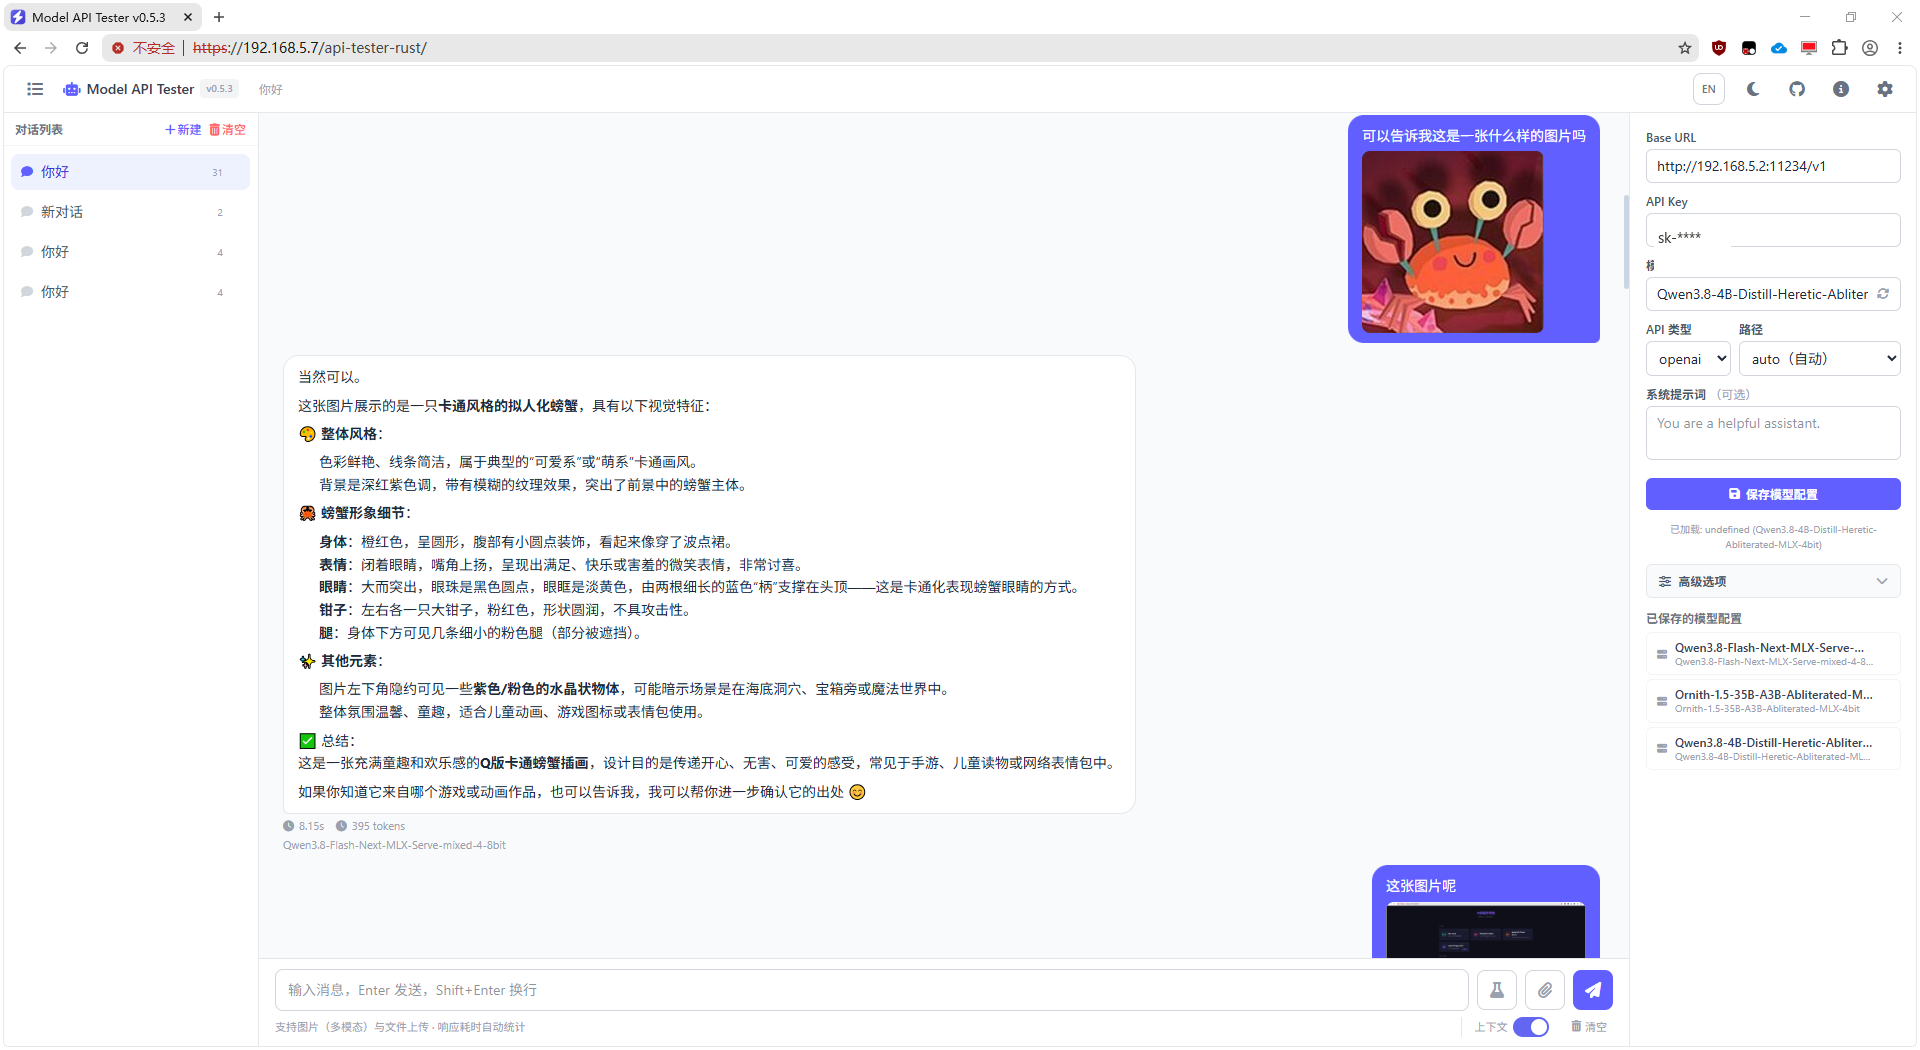
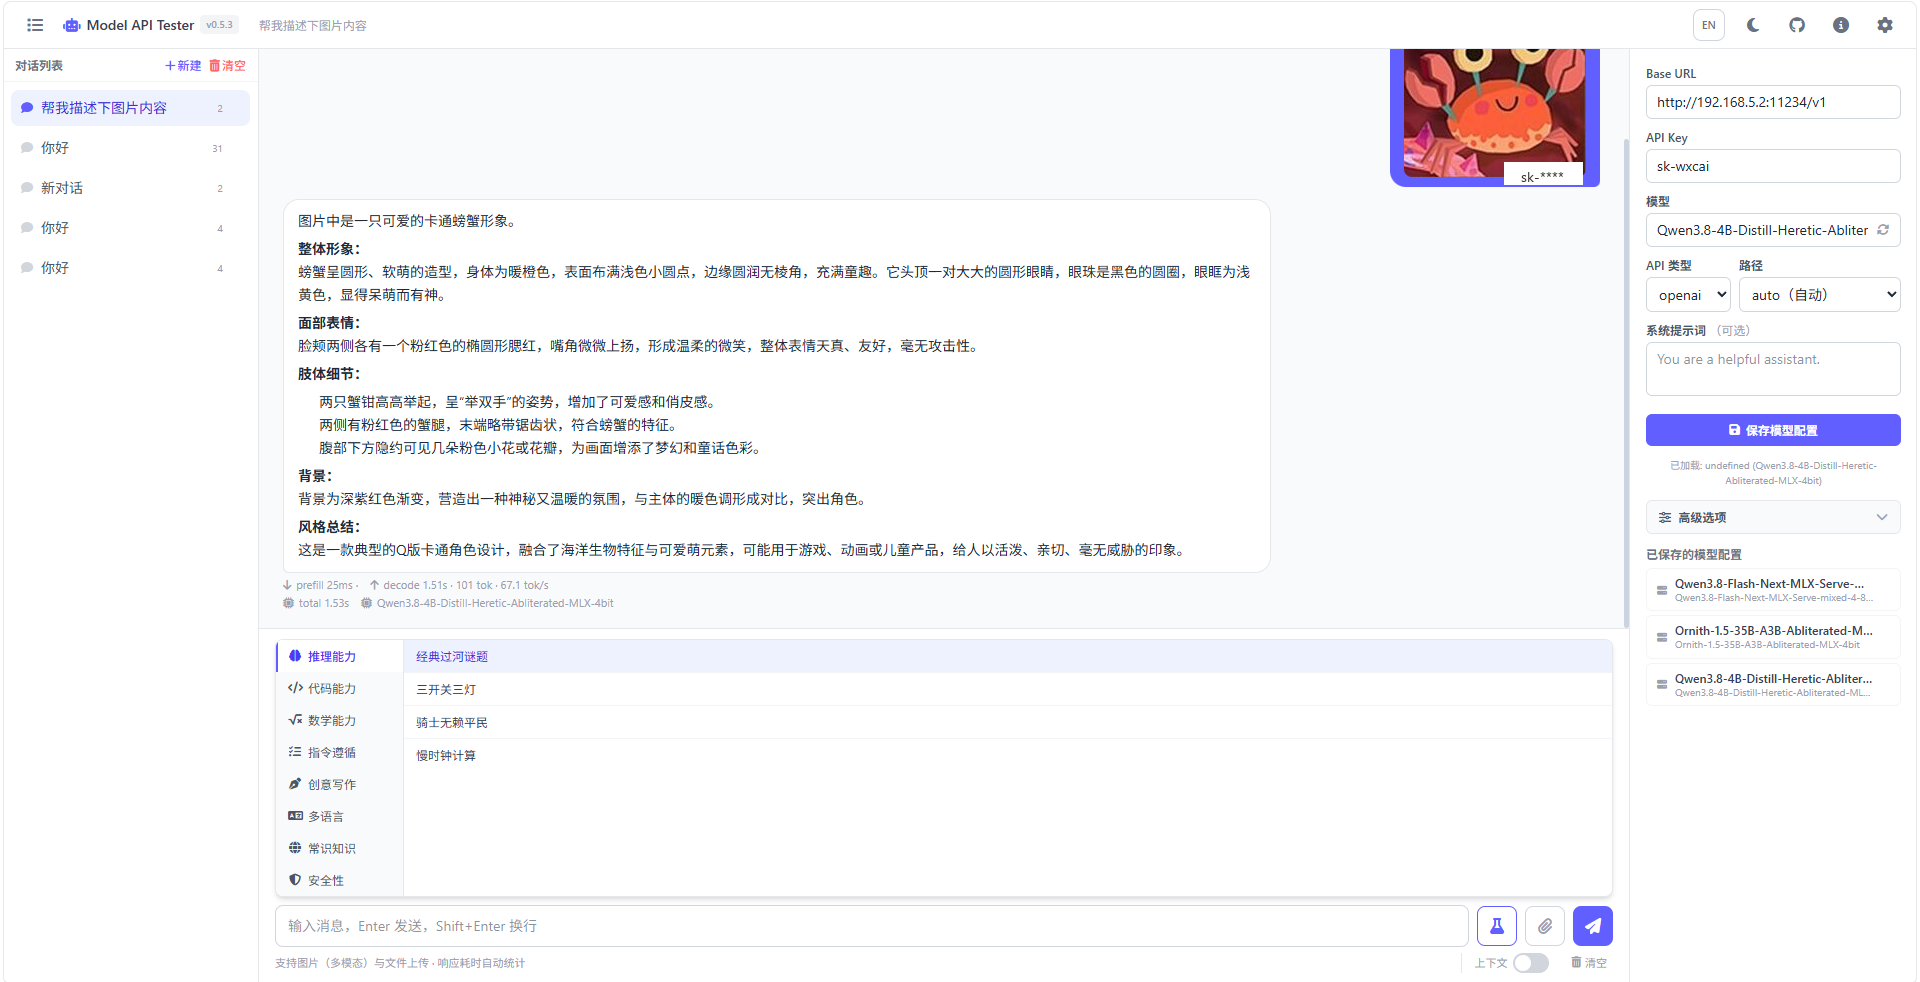
docs: optimize README — trim details, update screenshot with tok/s metrics, unify mat naming

diff --git a/README_en.md b/README_en.md
@@ -1,46 +1,32 @@
-
 # ModelApiTester
 
 English | [中文](./README.md)
 
-A lightweight LLM API testing tool with multimodal chat, image/file upload, streaming output, response timing stats, and persistent conversations & model configs.
+A lightweight LLM API testing tool with multimodal chat, streaming output, response timing stats, and persistent conversations & model configs.
 
-Designed for individuals/teams who need to test API availability and manage API keys — not a full-blown chat product, just "fill in the endpoint -> send a message -> see the result."
+Designed for individuals/teams who need to test API availability and manage API keys — not a full-blown chat product, just "fill in the endpoint → send a message → see the result."
+
+![Model API Tester Screenshot](./docs/screenshot.png)
 
 ## Features
 
-- **Multi-API type support** — Built-in OpenAI / Anthropic / Google Gemini / other mainstream API formats, auto-adapts request body and response parsing
-- **Streaming output** — Supports OpenAI / Anthropic / Google Gemini SSE streaming formats, character-by-character output with blinking cursor, auto Markdown render on completion
-- **Preset test prompts** — 32 curated prompts across 8 capability categories (reasoning / coding / math / instruction following / creative writing / multilingual / knowledge / safety), one-click fill into the input box, ideal for quickly comparing model capabilities
-- **Unified app icon** — Indigo gradient rounded square + white lightning bolt, consistent across Web favicon and desktop
-- **About dialog** — Chrome-like about page: brand area + update checker (auto-checks GitHub latest release, one-click jump to download when outdated) + GitHub / Changelog / Credits links
-- **Single-file desktop executable** — Tauri build no longer bundles installers; one portable binary, data stored in `~/.mat-desktop/`
-- **Response timing** — Each reply shows elapsed time, token usage, and model name; streaming mode breaks down prefill/decode timing and tok/s separately
-- **Image & file upload** — Multi-image select/preview, images sent as multimodal (OpenAI vision format), files attachable (Claude document block)
-- **Image double-click zoom** — Integrated Viewer.js; double-click any chat image to open a viewer with zoom/rotate/flip/download
-- **Math formula rendering** — Integrated KaTeX; supports `$...$` inline and `$$...$$` block-level formulas, perfectly renders LaTeX math expressions
-- **Video playback** — Video links in Markdown (`.mp4`/`.webm` extensions or `data:video` URIs) are automatically rendered as playable `<video>` tags
-- **Model list fetch** — Click the refresh button next to the model field to pull available models from `/v1/models`, with live filtering
-- **API type + endpoint dropdown** — Provides candidate paths per type (e.g. `/v1/chat/completions`, `/v1/messages`); empty = auto-infer
-- **Context toggle** — One-click switch for sending conversation history (off = pure single-turn test mode), defaults to off
-- **System prompt** — Optional system prompt field in the sidebar
-- **Persistent model configs** — Save/switch multiple configs; Base URL / API Key / model name / API type stored in SQLite
-- **Per-conversation model memory** — Current model config is auto-saved per conversation and restored when reopening
-- **Persistent conversations** — Multi-conversation list, chat history (including images) stored in SQLite, survives refresh; one-click clear all conversations
-- **i18n** — Chinese/English toggle, defaults to browser/OS language
-- **Dark/light theme** — One-click toggle, preference saved to localStorage
-- **Claude support** — Auto-detects Claude models, adapts `/v1/messages` format + image source format
-- **Google Gemini support** — `contents[]` format, `systemInstruction`, `inlineData` images, adjacent same-role merge
-- **Auto URL dedup** — Smart deduplication when Base URL contains `/v1`, no `/v1/v1/...`
+- **Multi-API types** — OpenAI / Anthropic / Google Gemini / other mainstream formats, auto-adapts request body and response parsing
+- **Streaming output** — Supports OpenAI / Anthropic / Gemini SSE streaming formats, character-by-character output with Markdown render on completion
+- **Response timing** — Each reply shows prefill time, decode time, generated token count, generation speed (tok/s), total elapsed time, and model name
+- **Multimodal upload** — Multi-image select/preview (OpenAI vision format), file attachments (Claude document block), double-click to zoom images (Viewer.js)
+- **Markdown + formulas** — markdown-it rendering + KaTeX math formulas (`$...$` inline / `$$...$$` block) + auto-play video links
+- **Preset test prompts** — 32 curated prompts across 8 capability categories, one-click fill, ideal for comparing model capabilities
+- **Persistent sessions & configs** — Multi-conversation management with SQLite storage; save/switch multiple model configs; auto-saves current config per message
+- **Model list fetch** — Pull available models from `/v1/models` with live filtering
+- **Context toggle** — One-click switch for sending conversation history (off = pure single-turn test mode)
+- **i18n + dark/light theme** — Auto-detects browser/OS language; dark/light theme toggle
 
 ## Three Usage Modes
-
-ModelApiTester offers three deployment/usage modes, all sharing the same Rust core and Vite frontend:
 
 | Mode | Description | Use case |
 |------|-------------|----------|
 | **Server** | Rust binary + frontend static files, accessed via browser | Server deployment, team sharing |
-| **Desktop app** | Tauri-packaged native desktop application | Local use, no server needed |
+| **Desktop app** | Tauri native desktop app, single portable binary | Local use, no server needed |
 | **Build from source** | cargo + npm local build | Development, customization |
 
 ---
@@ -56,8 +42,6 @@ Download the files for your platform from [Releases](https://github.com/yachen4e
 | `mat-server-macos-arm64` | macOS Apple Silicon |
 | `mat-server-macos-x64` | macOS Intel |
 | `mat-frontend-dist.zip` | Frontend static files (all platforms) |
-
-**Deployment steps:**
 
 ```bash
 # 1. Create deployment directory
@@ -87,14 +71,17 @@ Options:
       --port <PORT>          Listen port [default: 52081]
       --db-path <DB_PATH>    SQLite database path [default: ./model_api_tester.db]
       --static-dir <DIR>     Frontend static files directory [default: crates/http-server/static]
-  -h, --help                 Show help
-  -V, --version              Show version
+   -h, --help                 Show help
+   -V, --version              Show version
 ```
 
-All options are passed via CLI flags only; **environment variables are not supported** (to avoid common variables like `HOST`/`PORT` being accidentally set by external environments).
+All options are passed via CLI flags only; environment variables are not supported.
+
+- `--static-dir`: Frontend static files directory. The backend has a built-in ServeDir to serve frontend pages directly. If using nginx to host the frontend, this option is not needed.
+- `--db-path`: SQLite database location, useful for centralizing data management.
 
 ```bash
-# Expose externally + custom port and database path
+# Expose externally + custom port and data directory
 ./mat-server --host 0.0.0.0 --port 8080 --db-path /data/mat.db --static-dir /var/www/mat
 ```
 
@@ -107,8 +94,8 @@ After=network.target
 
 [Service]
 Type=simple
-WorkingDirectory=/opt/mat-server
-ExecStart=/opt/mat-server/mat-server --host 127.0.0.1 --port 52081 --db-path /opt/mat-server/model_api_tester.db --static-dir /opt/mat-server/static
+WorkingDirectory=/opt/mat
+ExecStart=/opt/mat/mat-server --host 127.0.0.1 --port 52081 --db-path /opt/mat/model_api_tester.db
 Restart=always
 RestartSec=3
 
@@ -120,14 +107,14 @@ nginx serves frontend static files directly and only proxies `/api/` to the Rust
 
 ```nginx
 # Frontend static files
-location /api-tester-rust/ {
-    alias /var/www/api-tester-rust/;
+location /mat/ {
+    alias /var/www/mat/;
     index index.html;
-    try_files $uri $uri/ /api-tester-rust/index.html =404;
+    try_files $uri $uri/ /mat/index.html =404;
 }
 
 # API proxy to Rust backend
-location /api-tester-rust/api/ {
+location /mat/api/ {
     proxy_pass http://127.0.0.1:52081/api/;
     proxy_set_header Host $host;
     proxy_set_header X-Real-IP $remote_addr;
@@ -142,7 +129,7 @@ location /api-tester-rust/api/ {
 }
 ```
 
-> In nginx deployment mode, the backend does not need `--static-dir` (nginx handles static files), but `--db-path` is still required.
+> In nginx mode, the backend does not need `--static-dir` (nginx handles static files), but `--db-path` is still required.
 
 ---
 
@@ -159,18 +146,11 @@ Download the executable for your platform from [Releases](https://github.com/yac
 
 Download and launch directly — data is stored in `~/.mat-desktop/`, no server configuration needed.
 
-> **Note**: Since v0.5.3 the desktop build is a single executable (no msi/dmg/deb installers).
-> The data directory is fixed to `~/.mat-desktop/model_api_tester.db` for portable green distribution.
-
-![Model API Tester Screenshot](./docs/screenshot.png)
-
 ---
 
 ### Mode 3: Build from Source
 
-**Prerequisites:**
-- Rust 1.75+ (install via `rustup`)
-- Node.js 18+ (for frontend build)
+**Prerequisites:** Rust 1.75+, Node.js 18+
 
 ```bash
 # 1. Build frontend
@@ -202,24 +182,42 @@ Open `http://localhost:5173` in your browser. Frontend code changes hot-reload i
 
 ---
 
-## Tech Stack
+## Architecture
 
-**Backend (shared core):**
-- Rust + axum 0.8 (HTTP server)
-- rusqlite (bundled SQLite)
-- tower-http (static file serving + CORS)
-- clap (CLI argument parsing)
+```
+ModelApiTester/
+├── crates/
+│   ├── core/              # Shared business logic (server + desktop)
+│   │   └── src/
+│   │       ├── lib.rs     # Module exports + VERSION
+│   │       ├── models.rs  # Data structures + DTOs
+│   │       └── db.rs      # SQLite schema/migration/CRUD
+│   ├── http-server/       # axum HTTP server
+│   │   └── src/main.rs    # CLI args + routes + static file serving
+│   └── tauri-app/         # Tauri desktop app (reuses core)
+│       └── src/lib.rs     # IPC routing (api_request command)
+├── frontend/              # Vite + Vue 3 frontend project
+│   └── src/
+│       ├── components/    # Vue components
+│       │   ├── ChatPanel.vue       # Chat area + streaming + preset prompts
+│       │   ├── ModelConfig.vue     # Model config panel
+│       │   ├── MessageBubble.vue   # Message bubble + Markdown render
+│       │   └── StreamBubble.vue    # Streaming output bubble
+│       └── composables/   # Vue Composition utilities
+│           ├── useApi.js           # API client
+│           ├── useStream.js        # SSE streaming response parser
+│           ├── useUtils.js         # Request builder + utilities
+│           └── mdRender.js         # Markdown renderer (markdown-it + KaTeX + video)
+└── .github/workflows/     # GitHub Actions CI/CD
+```
 
-**Frontend:**
-- Vue 3 (Composition API + `<script setup>`)
-- Vite 6 + Tailwind CSS v4
-- markdown-it + KaTeX (Markdown rendering + LaTeX math formulas)
-- Viewer.js (image viewer)
-- Font Awesome (icons)
-- Native fetch (API requests)
+**Tech stack:**
 
-**Desktop:**
-- Tauri 2 (reuses core + frontend)
+| Layer | Technology |
+|-------|------------|
+| Backend | Rust + axum + rusqlite + clap |
+| Frontend | Vue 3 + Vite 6 + Tailwind CSS v4 + markdown-it + KaTeX |
+| Desktop | Tauri 2 (reuses core + frontend) |
 
 ## API
 
@@ -233,68 +231,13 @@ Open `http://localhost:5173` in your browser. Frontend code changes hot-reload i
 | GET/DELETE | `/api/conversations/:id/messages` | List / clear messages |
 | POST | `/api/messages` | Save message (with images/files) |
 
-## Project Structure
-
-```
-ModelApiTester/
-├── Cargo.toml                    # Rust workspace root
-├── Cargo.lock
-├── crates/
-│   ├── core/                     # Shared business logic (server + desktop)
-│   │   ├── Cargo.toml
-│   │   └── src/
-│   │       ├── lib.rs            # Module exports + VERSION
-│   │       ├── models.rs         # Data structures + DTOs
-│   │       └── db.rs             # SQLite schema/migration/CRUD
-│   ├── http-server/              # axum HTTP server
-│   │   ├── Cargo.toml
-│   │   ├── src/
-│   │   │   └── main.rs           # CLI args + routes + ServeDir
-│   │   └── static/               # Vite build output (gitignored)
-│   └── tauri-app/                # Tauri desktop app (reuses core)
-│       ├── Cargo.toml
-│       ├── tauri.conf.json
-│       └── src/
-│           ├── lib.rs            # IPC routing (api_request command)
-│           └── main.rs           # Tauri entry
-├── frontend/                     # Vite + Vue 3 frontend project
-│   ├── package.json
-│   ├── vite.config.js
-│   ├── index.html
-│   └── src/
-│       ├── main.js               # Vue mount entry
-│       ├── App.vue               # Root layout (theme/language/conversation state)
-│       ├── i18n.js               # zh/en i18n (Vue reactive)
-│       ├── style.css             # Tailwind v4 + custom styles
-│       ├── components/           # Vue components
-│       │   ├── ChatPanel.vue      #   Chat area + streaming + preset prompt panel + send logic
-│       │   ├── ConversationList.vue #  Conversation list
-│       │   ├── ModelConfig.vue     #   Model config panel
-│       │   ├── MessageBubble.vue   #   Message bubble + Markdown render
-│       │   └── StreamBubble.vue    #   Streaming output bubble
-│       └── composables/          # Vue Composition utilities
-│           ├── useApi.js           #   API client (fetch / Tauri invoke)
-│           ├── useStream.js        #   SSE streaming response parser
-│           ├── useUtils.js         #   Utility functions + request builder
-│           └── mdRender.js         #   Shared Markdown renderer (markdown-it + KaTeX + video)
-├── .github/
-│   └── workflows/
-│       └── release.yml           # GitHub Actions (3-platform binaries + frontend zip + Tauri single executable)
-├── README.md
-├── README_en.md
-├── CHANGELOG.md
-└── .gitignore
-```
-
-> The legacy Bun version is archived in the `bun_legacy_archived` branch.
-
 ## Changelog
 
 See [CHANGELOG.md](./CHANGELOG.md).
 
 ## Credits
 
-This project started as a fork of [openai-api-tester](https://github.com/RunningFelix/openai-api-tester) by [@RunningFelix](https://github.com/RunningFelix) (MIT License). It has since been rewritten first as a Bun + SQLite engineering version, then as a Rust + Vite rewrite, with image upload, response timing, context toggle, UI redesign, multi-API type support, and more.
+This project started as a fork of [openai-api-tester](https://github.com/RunningFelix/openai-api-tester) (MIT License), later rewritten as a Bun + SQLite version, and finally refactored to Rust + Vue 3.
 
 ## License
 
